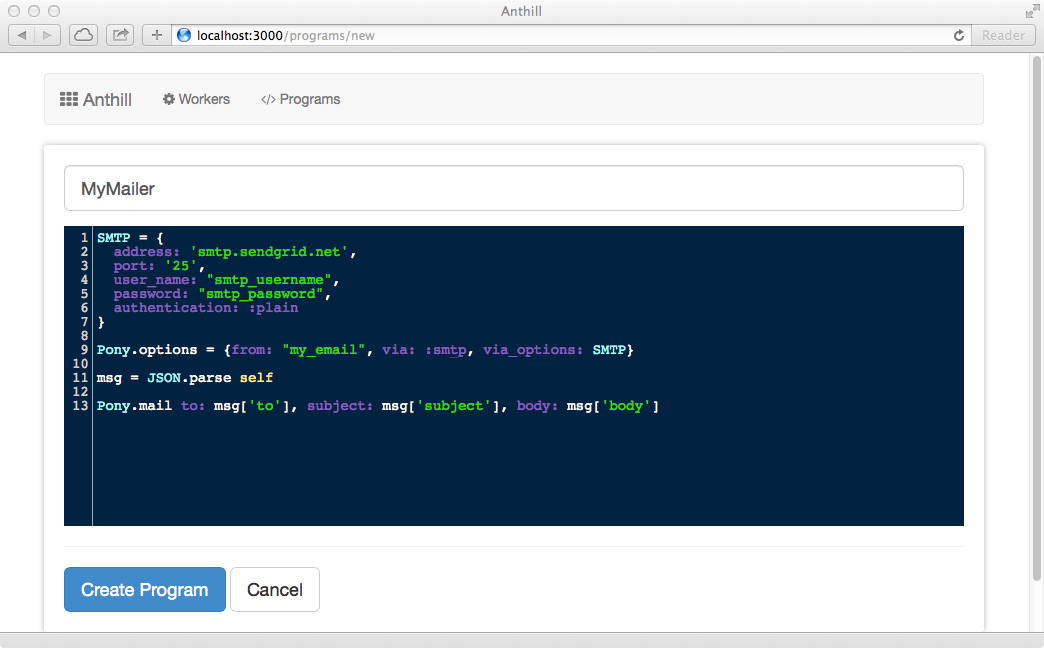
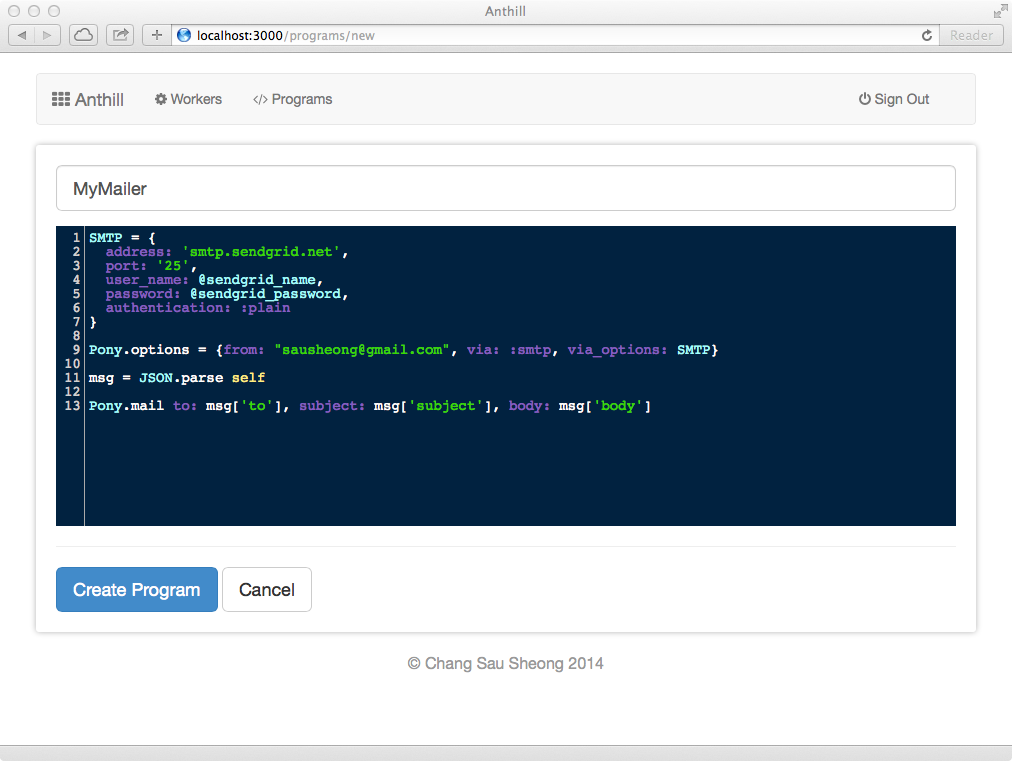
added worker variables

diff --git a/server.rb b/server.rb
@@ -3,57 +3,96 @@ require './worker'
 
 configure do
   @@range = (0..1000).to_a
+  enable :sessions
+  set :session_secret, ENV['SESSION_SECRET'] ||= 'my_saucy_secret'
+  set :protection, except: :session_hijacking  
+end
+
+
+get "/login" do  
+  haml :login, layout: false
+end
+
+post "/auth" do
+  if authenticate(params[:email], params[:password])
+    session[:user] = params[:email]
+    redirect "/"
+  else
+    raise "Incorrect username or password"
+  end
 end
 
 get "/" do
+  require_login
   haml :index
 end
 
+get "/logout" do
+  session.clear
+  redirect "/login"
+end
+
 get "/workers" do
+  require_login
   @workers = Celluloid::Actor.all
   @programs = Program.all
   haml :workers
 end
 
 post "/workers/start" do
+  require_login
   num = @@range.delete @@range.sample
   name = "#{params[:channel]}-#{"%03d" % num}"  
-  program = Program[params[:program]]  
-  worker = Worker.new params[:channel], program
+  program = Program[params[:program]]    
+  variables = Hash[params[:variable].reject(&:empty?).zip params[:value].reject(&:empty?)]  
+  worker = Worker.new params[:channel], program, variables
   Celluloid::Actor[name.to_sym] = worker
   redirect "/workers"
 end
 
 get "/workers/stop/:id" do
+  require_login
   worker = Celluloid::Actor[params[:id].to_sym]
   worker.terminate
   redirect "/workers"
 end
 
 get "/workers/clone/:id" do
+  require_login
   worker = Celluloid::Actor[params[:id].to_sym]
   num = @@range.delete @@range.sample
   name = "#{worker.channel_name}-#{"%03d" % num}"  
-  clone = Worker.new worker.channel_name, worker.program
+  clone = Worker.new worker.channel_name, worker.program, worker.variables
   Celluloid::Actor[name.to_sym] = clone
   redirect "/workers"
 end
 
+post "/workers/modify" do
+  require_login
+  worker = Celluloid::Actor[params[:id].to_sym]
+  worker.variables = Hash[params[:variable].reject(&:empty?).zip params[:value].reject(&:empty?)]
+  redirect "/workers"  
+end
+
 get "/programs" do
+  require_login
   @programs = Program.all
   haml :programs  
 end
 
 get "/programs/edit/:id" do
+  require_login
   @program = Program[params[:id]]
   haml :"programs.edit"    
 end
 
 get "/programs/new" do
+  require_login
   haml :"programs.new"  
 end
 
 post "/programs" do
+  require_login
   unless program = Program[params[:id]]
     program = Program.create
   end
@@ -62,6 +101,16 @@ post "/programs" do
 end
 
 get "/programs/delete/:id" do
+  require_login
   Program[params[:id]].destroy
   redirect "/programs"
+end
+
+
+def require_login      
+  redirect "/login" unless session[:user]
+end
+
+def authenticate(email, password)
+  RestClient.post "http://localhost:8108/authenticate", email: email, password: password
 end

diff --git a/worker.rb b/worker.rb
@@ -2,17 +2,18 @@ require 'bunny'
 
 class Worker
   include Celluloid
-  attr_accessor :program, :channel_name
+  attr_accessor :program, :channel_name, :variables
   finalizer :finalizer
   
-  def initialize(channel, program, prefetch_num=1)
-    @conn = Bunny.new(automatically_recover: false)
+  def initialize(channel, program, variables, prefetch_num=1)
+    @conn = Bunny.new(automatically_recover: true, vhost: "anthill", user: 'antman', pass: 'antpass')
     @conn.start
     @channel = @conn.create_channel
     @queue = @channel.queue(channel, durable: true)    
     @exchange = @channel.default_exchange
     @channel.prefetch prefetch_num
     @program, @channel_name = program, channel
+    @variables = variables
     async.run
   end
   
@@ -20,7 +21,11 @@ class Worker
     begin
       @consumer = @queue.subscribe(manual_ack: true, block: false) do |delivery_info, properties, body|
         begin
-          # response is the returned last line of the code
+          # add variables from the worker settings
+          variables.each do |name, value|
+            body.instance_variable_set "@#{name}", value
+          end
+           # response is the returned last line of the code
           response = body.instance_eval(@program.code)          
           # if the client specifies a reply_to and a correlation_id, publish the response to the reply_to queue
           if properties.reply_to and properties.correlation_id
@@ -43,4 +48,6 @@ class Worker
     @conn.close    
   end
 end
+
+
 

diff --git a/samples/ruby-client.rb b/samples/ruby-client.rb
@@ -4,7 +4,7 @@ require 'securerandom'
 
 message = {from: "Alex Bell", to: "Tom Watson", message: "Mr. Watson, come here, I want to see you."}
 
-conn = Bunny.new
+conn = Bunny.new(vhost: 'anthill', user: 'antman', pass: 'antpass')
 conn.start
 ch = conn.create_channel
 q = ch.queue "Message", durable: true

diff --git a/README.md b/README.md
@@ -10,7 +10,11 @@ While the current version runs both the queue and Anthill in the same server, th
 
 ## How does it work?
 
-Once you start up Anthill, go to _Programs_. 
+Once you start up Anthill, you will see the login page. Remember Anthill requires you to log in using authserv.
+
+![Login view](/readme_images/login.png "Login view")
+
+Once you have logged in go to _Programs_. 
 
 ![Programs view](/readme_images/programs.png "Programs view")
 
@@ -18,17 +22,20 @@ Click on _Add new program_ to create a new program.
 
 ![Add program view](/readme_images/add_program.png "Programs view")
 
-Enter the name of the program, and then the program code you want to run in each worker. Click on _Create Program_ to create the program.
+Enter the name of the program, and then the program code you want to run in each worker. The message itself is a String object, that is `self`. This means you can access the message data using `self`. Click on _Create Program_ to create the program.
 
 Now that you have the program, click on _Workers_ and then click on _Add new worker_ to create a new worker.
 
 ![Add worker view](/readme_images/add_worker.png "Add worker view") 
 
-Enter the name of the channel you want to receive messages from and select the program that you created earlier, then click on *Start_Worker*. 
+Enter the name of the channel you want to receive messages from and select the program that you created earlier. If you want to pass on variables to the worker here, you can set the name and the value of the variable. The program should be able to use it as an instance variable e.g. if you had a variable named `sendgrid_account_name` then you can acccess it as `@sendgrid_account_name` in your program. Once you're done, click on *Start_Worker*. 
 
 This will create a worker instance from your program.
 
-That's it! You've just created a worker node that will receive messages from the named channel. You can clone multiple copies of the same worker node if you need more processing capacity, or stop them as you like.
+![Workers view](/readme_images/workers.png "Workers view") 
+
+That's it! You've just created a worker node that will receive messages from the named channel. You can clone multiple copies of the same worker node if you need more processing capacity, or stop them as you like. Note that once you started the worker, changing the program doesn't affect how the worker runs. However you can still change the variables on the worker.
+
 
 ## Client
 
@@ -120,6 +127,8 @@ conn.close
 
 The `reply_to` tells the client which queue to monitor for the response, while the `correlation_id` makes sure it's the correct response to the message it sent earlier. The `routing_key` is the name of the queue, so you should create a worker that monitors a channel with that name.
 
+You can find more samples of client code in the _samples_ directory.
+
 ## Workers
 
 Workers are started in independent threads. Anthill uses [JRuby](http://www.jruby.org/) by default, meaning these are OS threads. You can also run in MRI 1.9 and above, though it will mean that the workers will run in green threads instead.
@@ -130,17 +139,25 @@ Workers can run in two modes -- it can run in a _process-and-forget mode_ by tak
 
 Whether a worker runs as in either mode depends on the calling client. By default it will run in _process-and-forget_ mode. If the client passes a *reply_to* and a *correlation_id* the worker will run in *RPC mode*.
 
+When you start workers you can set variables that are used during its execution. These variables are accessed by the program as instance variables. For example if you set a variable named `sendgrid_account_name` then you can acccess it as `@sendgrid_account_name` in your program. Every worker can run the same program but with completely different variable values.
+
+Workers are transient -- when Anthill is shut down, they will not be persisted and restarted when Anthill is restarted.
+
 ## Programs
 
 Programs are small snippets of Ruby script that you run to process messages that have been published on a queue. Programs are not meant to be full-fledged Ruby programs, so you should not write large complicated pieces of software.
 
-As with any Ruby scripts, the last line of your program will be returned as response. If you have added a *reply_to* and a *correlation_id* to the message in the send queue, the response message will be published on a reply queue with the same name as *reply_to*.
+As with any Ruby scripts, the last line of your program will be returned as response. If you have added a *reply_to* and a *correlation_id* to the message in the send queue (remember that the message is created by the client), the response message will be published on a reply queue with the same name as *reply_to*.
 
-You can find more samples of client code in the _samples_ directory.
+To access the message in the queue, you can use `self`. `self` is always a String object. For example, if the message is in JSON format (typically this is what you would do), then to access the message you can parse it like this:
+
+    message = JSON.parse self
+
+The program can also access variables that are set on the worker during its execution. To access a variable you can treat it as an instance variable e.g. simply append a `@` in front of the variable name.
 
 ## Use cases
 
-Anthill's main use case is in scaling up multiple small tasks quickly. Here are some examples
+Anthill's main use case is in scaling up multiple small tasks quickly. Here are some examples:
 
 ### Fire and forget emails
 
@@ -170,10 +187,11 @@ Anthill is dependent on the following software:
 
 * [RabbitMQ](https://www.rabbitmq.com/) - you need to install this before Anthill can run
 * [Postgres](http://www.postgresql.org/) - this allows you to persist your programs in the database (if you want something smaller, you can switch to another relational database with some minor modification of the code)
+* [authserv] (https://github.com/sausheong/authserv) - this is the authentication service for Anthill. You should clone the repo, set it up (it uses Postgres for persistence too) and run it at port 8108.
 
 ### Steps
 
-1. Make sure you have RabbitMQ and Postgres installed. Postgres should be started.
+1. Make sure you have RabbitMQ, Postgres and authserv installed. Postgres and authserv should be started.
 2. Make sure you have JRuby installed, or change .ruby-version to reflect the version of Ruby you can want to use
 3. Run `bundle install`. This will install the necessary gems
 4. Run the setup script `./setup`. This will set up the database for you and run migration.
